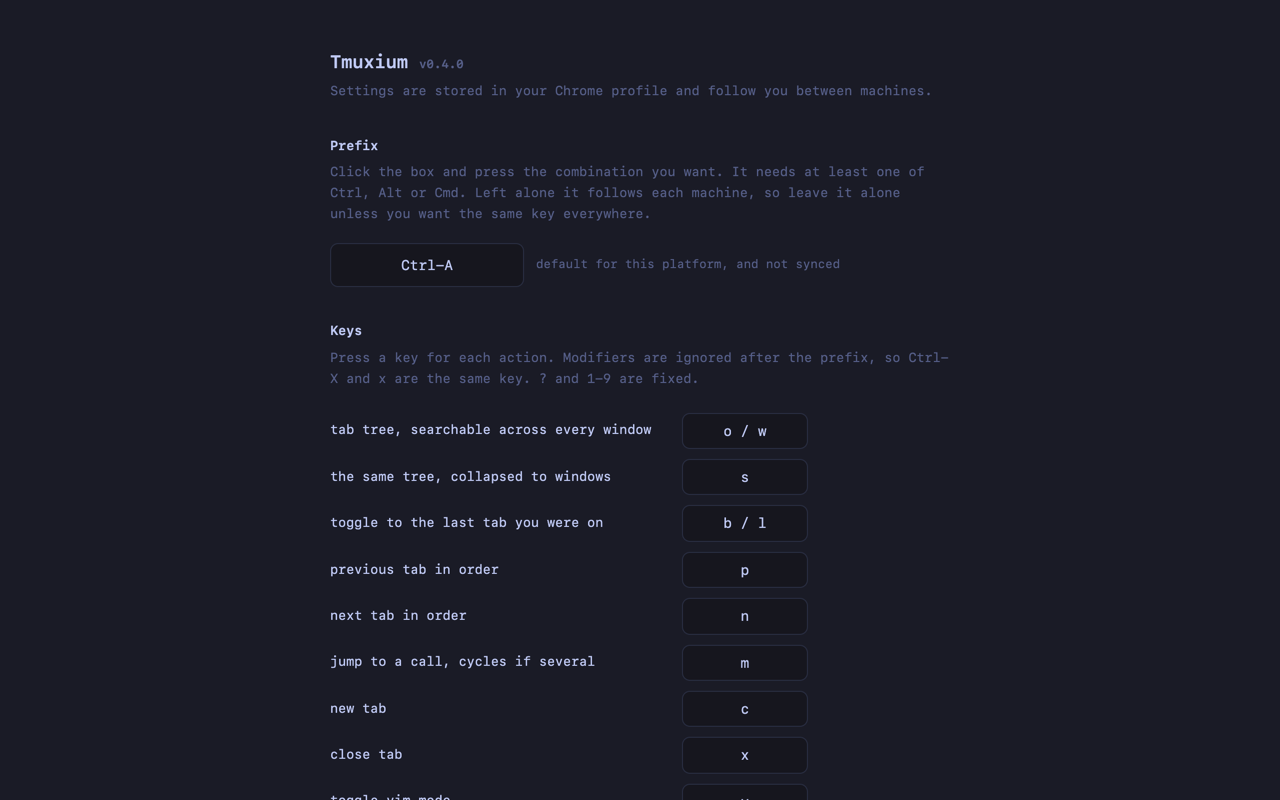
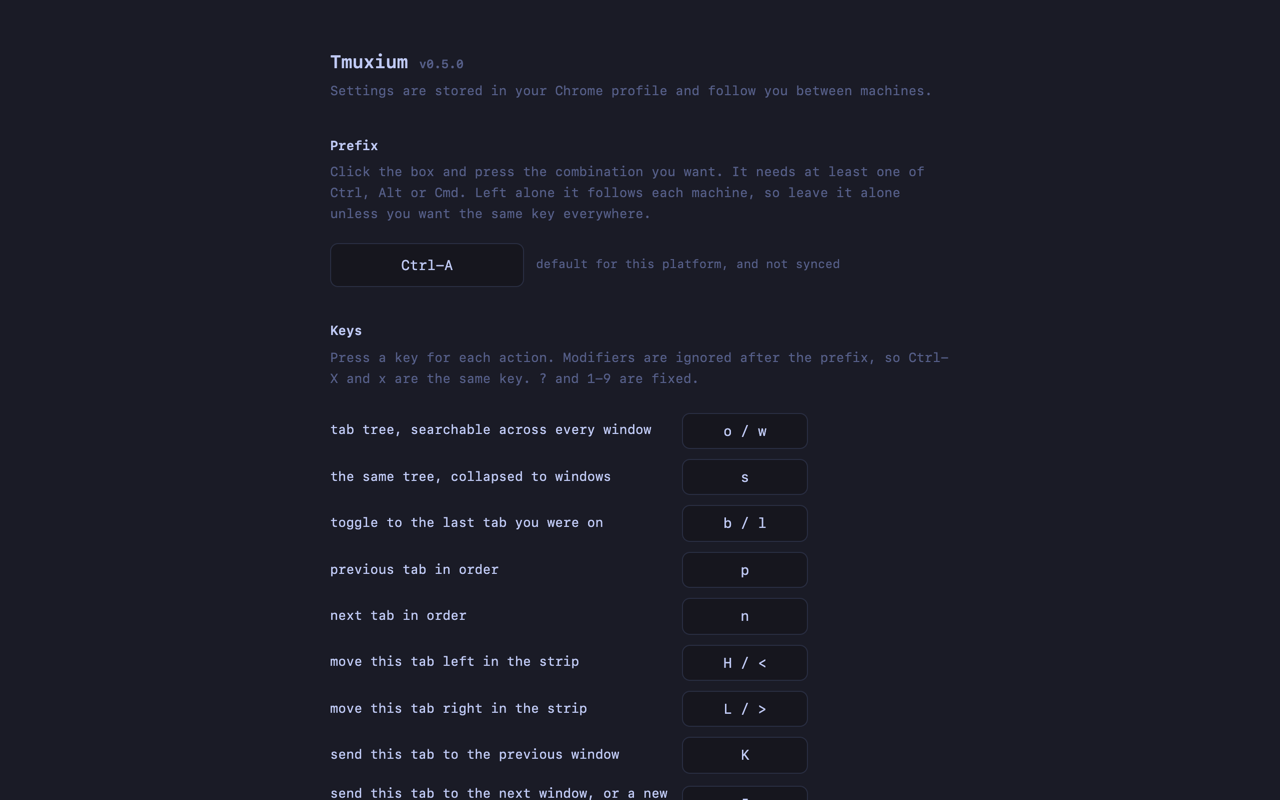
chore: release 0.5.0 with tab moves and audio
Version, changelog, readme, store copy and screenshots for the upload.
The listing's key table gains the six new actions, WHAT'S NEW is
rewritten for this release only, and the tabs justification now names
moving and muting, so the permission still covers everything the
extension does with it.

diff --git a/store/listing.md b/store/listing.md
@@ -53,6 +53,10 @@ Prefix, press Ctrl-A then:
   p, n           previous, next tab
   1-9            jump to a tab by position
   m              jump to a video call
+  a              jump to a tab playing sound
+  M              mute or unmute this tab
+  H <, L >       move this tab left, right
+  K, J           send this tab to the previous, next window
   c              new tab
   x              close this tab
   v              vim mode on or off
@@ -108,10 +112,9 @@ marks yet.
 
 WHAT'S NEW
 
-0.4.0: every key after the prefix can be rebound in settings, under Keys. The
-help overlay, the tab tree footer and the toolbar popup name the keys you
-actually have. The content script no longer writes to the console of every
-page it loads in.
+0.5.0: move the current tab left or right, or send it to another window, from
+the keyboard. Jump to whichever tab is playing sound, and mute it. The tab tree
+marks tabs making sound. Keys you rebound yourself survive the upgrade.
 
 Full history: https://github.com/LockeAG/tmuxium/blob/main/CHANGELOG.md
 
@@ -135,8 +138,9 @@ opening, closing and moving around tabs and pages using the keyboard.
 
 ```
 Needed to read tab titles and URLs so the tab switcher can list and filter them,
-and to recognise when a tab is a video call. Also used to activate, create and
-close tabs in response to the keyboard shortcuts the user presses. Titles and
+and to recognise when a tab is a video call or is playing sound. Also used to
+activate, create, close, move and mute tabs in response to the keyboard
+shortcuts the user presses. Titles and
 URLs are only ever shown back to the user in the overlay; nothing is stored
 beyond the browser session and nothing is transmitted.
 ```
@@ -214,7 +218,7 @@ https://github.com/LockeAG/tmuxium/blob/main/PRIVACY.md
 - [ ] Rewrite WHAT'S NEW in the description for this release: latest version
       only, a few plain lines, the CHANGELOG link carries the history. The
       description is the field that has been rejected twice, so it stays short
-- [ ] Check `manifest.json` in the zip says `Tmuxium`, version `0.4.0`, and
+- [ ] Check `manifest.json` in the zip says `Tmuxium`, version `0.5.0`, and
       lists exactly `tabs`, `storage`, `scripting`. Every upload must carry a
       higher version than the one before it, so never resubmit on the same
       number, even after a rejection

diff --git a/CHANGELOG.md b/CHANGELOG.md
@@ -3,6 +3,27 @@
 Notable changes, newest first. Follows [Keep a Changelog](https://keepachangelog.com/en/1.1.0/)
 loosely and [semantic versioning](https://semver.org/).
 
+## 0.5.0 - 2026-10-04
+
+### Added
+
+- **Move tabs.** `Ctrl-A H` or `<` moves the current tab left in the strip,
+  `L` or `>` moves it right. Pinned tabs and tab groups behave as they do when
+  you drag.
+- **Send tabs to another window.** `Ctrl-A K` sends the current tab to the
+  previous window, `J` to the next, and focus follows it. With only one window
+  it breaks the tab out into a new one, like tmux break-pane.
+- **Find the tab making sound.** `Ctrl-A a` jumps to the next tab playing
+  audio, skipping muted ones, and cycles if there are several. `Ctrl-A M` mutes
+  or unmutes the current tab.
+- The tab tree marks any tab playing sound with a green dot, hollow when the
+  tab is muted.
+
+### Changed
+
+- A key you rebound yourself now wins over a new action's default, so an
+  upgrade never takes a binding away from you.
+
 ## 0.4.0 - 2026-09-02
 
 Built while 0.3.0 sat in store review. Goes up as the next upload whatever the
@@ -46,8 +67,8 @@ higher version than the last.
 
 ## Planned
 
-For the release after 0.4.0, once the store listing is approved. Both change
-the submitted package, so neither goes in while a review is pending.
+For the release after 0.5.0. Both change the submitted package, so neither goes
+in while a review is pending.
 
 - **Search from the tab tree.** `Ctrl-Enter` searches the filter text with the
   configured engine, and the empty state becomes an offer to search rather than

diff --git a/README.md b/README.md
@@ -52,6 +52,10 @@ be rebound in Settings, under Keys.
 | `p` / `n` | previous / next tab in order |
 | `1`-`9` | jump to a tab by position |
 | `m` | jump to a call, cycles if there are several |
+| `a` | jump to a tab playing sound, cycles if there are several |
+| `M` | mute or unmute this tab |
+| `H` / `<`, `L` / `>` | move this tab left / right |
+| `K` / `J` | send this tab to the previous / next window |
 | `c` | new tab |
 | `x` | close this tab |
 | `v` | vim mode on or off |
@@ -95,9 +99,10 @@ tab alone.
 
 ## Calls come first
 
-A live call is hoisted to the top under **In a call**, tinted, with a dot that
-turns green while the tab is making sound. `Ctrl-A m` skips the tree and jumps
-straight there.
+A live call is hoisted to the top under **In a call**, tinted. Any tab making
+sound gets a green dot in the tree, hollow when the tab is muted. `Ctrl-A m`
+skips the tree and jumps straight to the call, `Ctrl-A a` to whatever is
+playing.
 
 Recognised from the URL, so a meeting counts and a landing page does not. Meet,
 Zoom, Teams, Webex, Chime, GoTo, BlueJeans, Skype, Jitsi, Around, Gather. One
